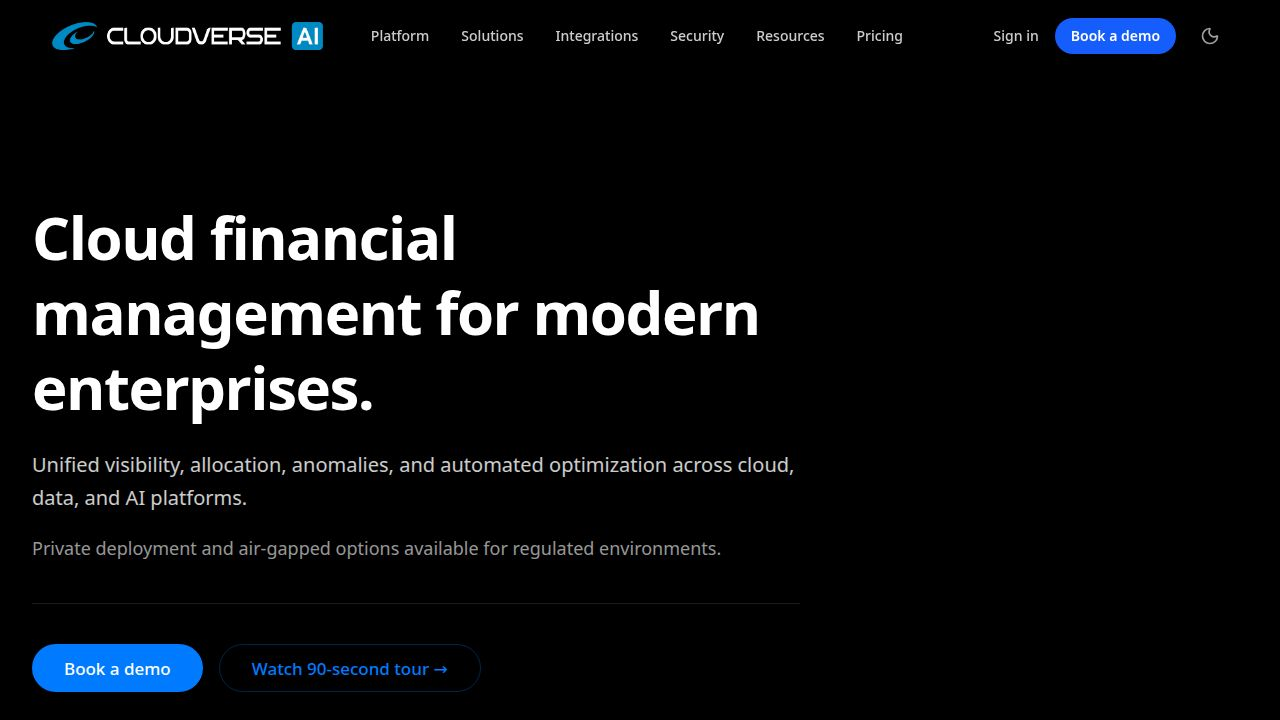
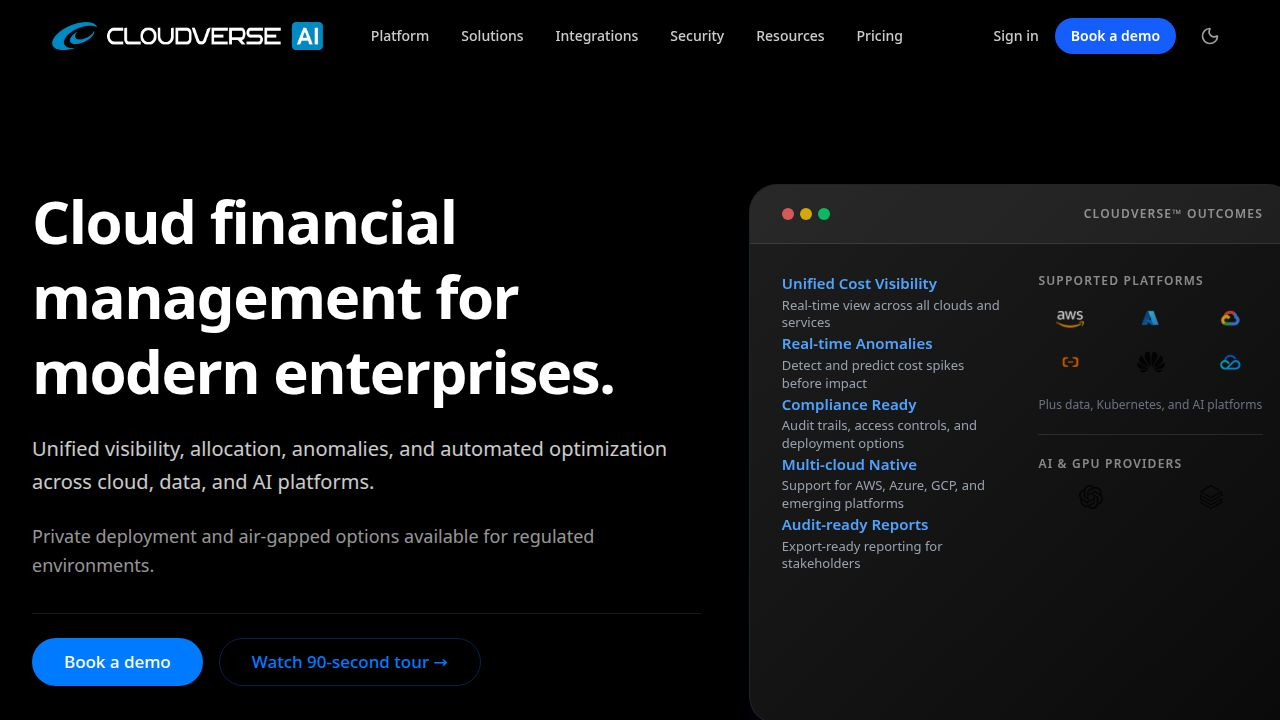
Enhance the Home page and refine navigation elements
Refactor Home page hero section, add a new DeploymentOptions component, and remove 'Security' from SiteNav.

Replit-Commit-Author: Agent
Replit-Commit-Session-Id: 8d2b6972-bed9-45d8-98f4-92d26cffa344
Replit-Commit-Checkpoint-Type: intermediate_checkpoint
Replit-Commit-Event-Id: 1434bc9d-f230-4ab5-8a7a-9ef2214630e3
Replit-Commit-Screenshot-Url: https://storage.googleapis.com/screenshot-production-us-central1/d8dacd2f-b214-4560-9121-caa3bb9575fb/8d2b6972-bed9-45d8-98f4-92d26cffa344/VywP0d4
Replit-Helium-Checkpoint-Created: true

diff --git a/client/src/components/home/MicroPreview.tsx b/client/src/components/home/MicroPreview.tsx
@@ -1,130 +1,104 @@
+import { cn } from "@/lib/utils";
+
 interface MicroPreviewProps {
   variant: "connect" | "normalize" | "automate";
 }
 
 export function MicroPreview({ variant }: MicroPreviewProps) {
-  const renderConnect = () => (
-    <div className="space-y-3">
-      <p className="text-[11px] tracking-[0.18em] text-white/50 uppercase font-semibold">
-        Typical setup
-      </p>
-      <div className="flex flex-wrap gap-1.5 mb-3">
-        {["AWS", "Azure", "GCP", "OCI", "+ more"].map((provider) => (
-          <span
-            key={provider}
-            className="text-[10px] px-2 py-0.5 rounded-full bg-white/10 text-white/70"
-          >
-            {provider}
-          </span>
-        ))}
-      </div>
-      <div className="space-y-1.5 text-[11px]">
-        {["Read-only access", "Scoped roles", "Usage + billing signals"].map((item) => (
-          <div key={item} className="flex items-center gap-2 text-white/60">
-            <div className="w-1 h-1 rounded-full bg-white/40" />
-            <span>{item}</span>
+  if (variant === "connect") {
+    return (
+      <div className="w-full h-full bg-black/40 rounded-xl border border-white/10 p-4 overflow-hidden flex flex-col gap-3">
+        <div className="flex items-center justify-between">
+          <div className="flex items-center gap-2">
+            <div className="w-2 h-2 rounded-full bg-green-500 shadow-[0_0_8px_rgba(34,197,94,0.5)]" />
+            <span className="text-[10px] font-medium text-white/50 uppercase tracking-wider">AWS Production</span>
           </div>
-        ))}
-      </div>
-    </div>
-  );
-
-  const renderNormalize = () => (
-    <div className="space-y-3">
-      <p className="text-[11px] tracking-[0.18em] text-white/50 uppercase font-semibold">
-        Normalized dimensions
-      </p>
-      <div className="space-y-1.5 text-[10px] mb-3 font-mono text-white/60">
-        <div className="flex justify-between">
-          <span>cost_center</span>
-          <span className="text-white/40">→</span>
-          <span>Team</span>
+          <span className="text-[10px] text-white/30">Connected</span>
         </div>
-        <div className="flex justify-between">
-          <span>env</span>
-          <span className="text-white/40">→</span>
-          <span>Environment</span>
-        </div>
-        <div className="flex justify-between">
-          <span>app</span>
-          <span className="text-white/40">→</span>
-          <span>Product</span>
-        </div>
-      </div>
-      <div className="flex flex-wrap gap-1 pt-2">
-        {["Team", "Product", "Env", "Owner"].map((dim) => (
-          <span
-            key={dim}
-            className="text-[10px] px-1.5 py-0.5 rounded bg-white/5 text-white/50 border border-white/10"
-          >
-            {dim}
-          </span>
-        ))}
-      </div>
-    </div>
-  );
-
-  const renderAutomate = () => (
-    <div className="space-y-3">
-      <p className="text-[11px] tracking-[0.18em] text-white/50 uppercase font-semibold">
-        Automation queue
-      </p>
-      <div className="space-y-2 mb-3">
-        {[
-          { item: "Idle compute cleanup", impact: "High" },
-          { item: "Commitment right-size", impact: "Medium" },
-          { item: "Storage tiering", impact: "Low" },
-        ].map(({ item, impact }) => (
-          <div key={item} className="flex items-center justify-between text-[11px]">
-            <span className="text-white/60">{item}</span>
-            <span
-              className={`text-[9px] px-1.5 py-0.5 rounded ${
-                impact === "High"
-                  ? "bg-red-500/20 text-red-400"
-                  : impact === "Medium"
-                    ? "bg-amber-500/20 text-amber-400"
-                    : "bg-emerald-500/20 text-emerald-400"
-              }`}
-            >
-              {impact}
-            </span>
+        <div className="space-y-2">
+          <div className="h-1.5 w-full bg-white/5 rounded-full overflow-hidden">
+            <div className="h-full w-[65%] bg-blue-500/50" />
           </div>
-        ))}
-      </div>
-      <div className="text-[10px] text-white/50 flex items-center gap-2 pt-2">
-        <div className="w-3 h-2 rounded-full bg-blue-500/30 flex items-center gap-0.5">
-          <div className="h-1 w-0.5 bg-blue-400/60" />
-          <div className="h-1.5 w-0.5 bg-blue-400/60" />
-          <div className="h-1 w-0.5 bg-blue-400/60" />
+          <div className="flex justify-between items-center text-[9px]">
+            <span className="text-white/40">Syncing billing data...</span>
+            <span className="text-blue-400">88%</span>
+          </div>
         </div>
-        <span>Anomaly detected</span>
+        <div className="grid grid-cols-2 gap-2 mt-1">
+          <div className="p-2 rounded-lg bg-white/5 border border-white/10 space-y-1">
+            <div className="text-[8px] text-white/30 uppercase">Latency</div>
+            <div className="text-xs font-semibold text-white/80">142ms</div>
+          </div>
+          <div className="p-2 rounded-lg bg-white/5 border border-white/10 space-y-1">
+            <div className="text-[8px] text-white/30 uppercase">Status</div>
+            <div className="text-xs font-semibold text-green-400/80">Active</div>
+          </div>
+        </div>
       </div>
-    </div>
-  );
+    );
+  }
 
-  const tagLabel = {
-    connect: "Connections",
-    normalize: "Cost model",
-    automate: "Automation",
-  }[variant];
-
-  const renderContent = () => {
-    switch (variant) {
-      case "connect":
-        return renderConnect();
-      case "normalize":
-        return renderNormalize();
-      case "automate":
-        return renderAutomate();
-    }
-  };
+  if (variant === "normalize") {
+    return (
+      <div className="w-full h-full bg-black/40 rounded-xl border border-white/10 p-4 overflow-hidden flex flex-col gap-2.5">
+        <div className="text-[10px] font-medium text-white/50 uppercase tracking-wider mb-1">Cost Dimensions</div>
+        <div className="space-y-2">
+          {[
+            { label: "Environment", value: "Production", color: "bg-blue-500" },
+            { label: "Team", value: "Platform Engineering", color: "bg-purple-500" },
+            { label: "Service", value: "Auth-API", color: "bg-cyan-500" },
+          ].map((item, i) => (
+            <div key={i} className="flex items-center justify-between p-1.5 rounded-lg bg-white/5 border border-white/5">
+              <div className="flex items-center gap-2">
+                <div className={cn("w-1 h-3 rounded-full", item.color)} />
+                <span className="text-[10px] text-white/60">{item.label}</span>
+              </div>
+              <span className="text-[10px] font-medium text-white/80">{item.value}</span>
+            </div>
+          ))}
+        </div>
+        <div className="mt-auto pt-2 flex items-center justify-center gap-1">
+          <div className="w-1 h-1 rounded-full bg-white/20" />
+          <div className="w-1 h-1 rounded-full bg-white/40" />
+          <div className="w-1 h-1 rounded-full bg-white/20" />
+        </div>
+      </div>
+    );
+  }
 
   return (
-    <div className="rounded-2xl border border-white/10 bg-white/[0.04] p-4 sm:p-5 h-[170px] sm:h-[180px] flex flex-col justify-between">
-      <div>{renderContent()}</div>
-      <p className="text-[9px] font-semibold text-white/40 uppercase tracking-widest text-right">
-        {tagLabel}
-      </p>
+    <div className="w-full h-full bg-black/40 rounded-xl border border-white/10 p-4 overflow-hidden flex flex-col gap-3">
+      <div className="flex items-center justify-between">
+        <span className="text-[10px] font-medium text-white/50 uppercase tracking-wider">Anomalies</span>
+        <div className="px-1.5 py-0.5 rounded bg-red-500/10 border border-red-500/20 text-[8px] text-red-400 uppercase font-bold">Alert</div>
+      </div>
+      <div className="relative h-16 w-full mt-1">
+        <svg className="w-full h-full" viewBox="0 0 100 40">
+          <path
+            d="M0 35 L20 32 L40 34 L60 10 L80 15 L100 8"
+            fill="none"
+            stroke="rgba(239, 68, 68, 0.5)"
+            strokeWidth="2"
+            strokeLinecap="round"
+          />
+          <path
+            d="M0 35 L20 32 L40 34 L60 10 L80 15 L100 8 V40 H0 Z"
+            fill="url(#gradient-red)"
+            className="opacity-20"
+          />
+          <defs>
+            <linearGradient id="gradient-red" x1="0" y1="0" x2="0" y2="1">
+              <stop offset="0%" stopColor="#ef4444" />
+              <stop offset="100%" stopColor="transparent" />
+            </linearGradient>
+          </defs>
+          <circle cx="60" cy="10" r="2" fill="#ef4444" />
+        </svg>
+      </div>
+      <div className="space-y-1 mt-1">
+        <div className="text-[10px] font-semibold text-white/90">Unexpected Spike Detected</div>
+        <div className="text-[9px] text-white/40">EC2 usage increased by 42% in us-east-1</div>
+      </div>
     </div>
   );
 }

diff --git a/client/src/components/home/DeploymentOptions.tsx b/client/src/components/home/DeploymentOptions.tsx
@@ -1,0 +1,68 @@
+import { Shield, Cloud, Lock } from "lucide-react";
+
+const options = [
+  {
+    title: "CloudVerse Cloud",
+    description: "Fully managed SaaS hosted by CloudVerse. Get started in minutes with zero infrastructure overhead.",
+    icon: Cloud,
+    tag: "Most Popular",
+  },
+  {
+    title: "Private Deployment",
+    description: "Deploy CloudVerse within your own VPC (AWS), VNet (Azure), or private cluster. Keep data within your network.",
+    icon: Shield,
+    tag: "Enterprise",
+  },
+  {
+    title: "Air-gapped",
+    description: "Full offline deployment for highly regulated environments. Maintain complete control and isolation.",
+    icon: Lock,
+    tag: "Regulated",
+  },
+];
+
+export function DeploymentOptions() {
+  return (
+    <section className="py-16 sm:py-18 lg:py-20 border-t border-white/10">
+      <div className="max-w-7xl mx-auto px-5 sm:px-6 lg:px-8">
+        <div className="mb-10 sm:mb-12">
+          <p className="text-xs sm:text-sm font-semibold uppercase tracking-widest text-white/50 mb-3">
+            Deployment Options
+          </p>
+          <h2 className="text-3xl sm:text-4xl lg:text-5xl font-bold tracking-tight text-white mb-4">
+            Choose the deployment model that fits your security requirements.
+          </h2>
+        </div>
+
+        <div className="grid grid-cols-1 md:grid-cols-3 gap-6">
+          {options.map((option, idx) => (
+            <div
+              key={idx}
+              className="group p-8 rounded-2xl border border-white/10 bg-white/[0.02] hover:bg-white/[0.04] transition-all duration-300 flex flex-col h-full"
+            >
+              <div className="flex items-start justify-between mb-6">
+                <div className="p-3 rounded-xl bg-blue-500/10 border border-blue-500/20 group-hover:border-blue-500/40 transition-colors">
+                  <option.icon className="w-6 h-6 text-blue-400" />
+                </div>
+                <span className="text-[10px] font-bold uppercase tracking-wider px-2 py-1 rounded bg-white/5 border border-white/10 text-white/40">
+                  {option.tag}
+                </span>
+              </div>
+              <h3 className="text-xl font-bold text-white mb-3 group-hover:text-blue-400 transition-colors">
+                {option.title}
+              </h3>
+              <p className="text-white/60 leading-relaxed mb-6">
+                {option.description}
+              </p>
+              <div className="mt-auto pt-6 border-t border-white/5">
+                <button className="text-sm font-semibold text-white/80 group-hover:text-white transition-colors inline-flex items-center gap-2">
+                  Learn more <span className="group-hover:translate-x-1 transition-transform">→</span>
+                </button>
+              </div>
+            </div>
+          ))}
+        </div>
+      </div>
+    </section>
+  );
+}

diff --git a/client/src/pages/Security.tsx b/client/src/pages/Security.tsx
@@ -92,38 +92,6 @@ export default function Security() {
         </div>
       </MotionHero>
 
-      <section className="py-14 sm:py-16 lg:py-20">
-        <div className="cv-container">
-          <div className="text-center max-w-2xl mx-auto mb-10">
-            <h2 className="cv-h2 mb-3">Deployment options</h2>
-            <p className="text-cv-muted">
-              Choose the deployment model that fits your security requirements.
-            </p>
-          </div>
-
-          <div className="grid grid-cols-1 md:grid-cols-2 lg:grid-cols-3 gap-6 lg:gap-8">
-            {deploymentOptions.map((option, idx) => (
-              <div 
-                key={idx} 
-                className="border border-cv-line rounded-2xl p-6 sm:p-8 bg-cv-surface2 flex flex-col h-full"
-              >
-                <h3 className="text-xl font-semibold text-cv-ink mb-1">{option.title}</h3>
-                <p className="text-xs text-blue-400 font-medium mb-3">Best for: {option.bestFor}</p>
-                <p className="text-sm text-cv-muted mb-6">{option.description}</p>
-                <ul className="space-y-3 mt-auto">
-                  {option.bullets.map((bullet, bulletIdx) => (
-                    <li key={bulletIdx} className="flex items-start gap-3 text-sm text-cv-muted">
-                      <span className="text-blue-400 font-semibold mt-0.5 flex-shrink-0">•</span>
-                      <span>{bullet}</span>
-                    </li>
-                  ))}
-                </ul>
-              </div>
-            ))}
-          </div>
-        </div>
-      </section>
-
       <section className="py-14 sm:py-16 lg:py-20 border-t border-cv-line">
         <div className="cv-container max-w-[1000px]">
           <h2 className="cv-h2 mb-8 text-center">Designed for enterprise trust.</h2>

diff --git a/client/src/components/home/HowItWorks.tsx b/client/src/components/home/HowItWorks.tsx
@@ -70,10 +70,10 @@ export function HowItWorks() {
         aria-hidden="true"
       />
       
-      <div className="mx-auto w-full max-w-7xl px-6 sm:px-8">
+      <div className="mx-auto w-full max-w-7xl px-5 sm:px-6 lg:px-8">
         {/* Header */}
         <div className="text-center max-w-3xl mx-auto mb-12 sm:mb-16 lg:mb-20 space-y-3">
-          <h2 className="text-3xl sm:text-4xl lg:text-5xl font-semibold tracking-tight">
+          <h2 className="text-3xl sm:text-4xl lg:text-5xl font-semibold tracking-tight text-white">
             How CloudVerse™ works
           </h2>
           <p className="text-base sm:text-lg text-white/70 leading-relaxed">
@@ -155,7 +155,7 @@ export function HowItWorks() {
                 </div>
 
                 {/* Micro Visual Tile */}
-                <div className="mt-5 lg:mt-6">
+                <div className="mt-5 lg:mt-6 h-[160px]">
                   <MicroPreview variant={idx === 0 ? "connect" : idx === 1 ? "normalize" : "automate"} />
                 </div>
               </div>

diff --git a/client/src/pages/Home.tsx b/client/src/pages/Home.tsx
@@ -8,6 +8,7 @@ import { PillarCard } from "@/components/PillarCard";
 import { OutcomeTile } from "@/components/OutcomeTile";
 import { MotionHeroBackground } from "@/components/MotionHeroBackground";
 import { HeroCard } from "@/components/home/HeroCard";
+import { DeploymentOptions } from "@/components/home/DeploymentOptions";
 import { HowItWorks } from "@/components/home/HowItWorks";
 import { Globe, Receipt, Tag, Code2, Cpu, Activity } from "lucide-react";
 
@@ -103,6 +104,8 @@ export default function Home() {
           </div>
         </div>
       </section>
+
+      <DeploymentOptions />
 
       {/* Customer Logos Section */}
       <section className="py-10 sm:py-12 lg:py-14 border-t border-white/10">

diff --git a/client/src/components/SiteNav.tsx b/client/src/components/SiteNav.tsx
@@ -28,7 +28,6 @@ export function SiteNav() {
     { href: ROUTES.platform, label: "Platform", track: "nav_platform" },
     { href: ROUTES.solutions, label: "Solutions", track: "nav_solutions" },
     { href: ROUTES.integrations, label: "Integrations", track: "nav_integrations" },
-    { href: ROUTES.security, label: "Security", track: "nav_security" },
     { href: ROUTES.resources, label: "Resources", track: "nav_resources" },
     { href: ROUTES.pricing, label: "Pricing", track: "nav_pricing" },
   ];
